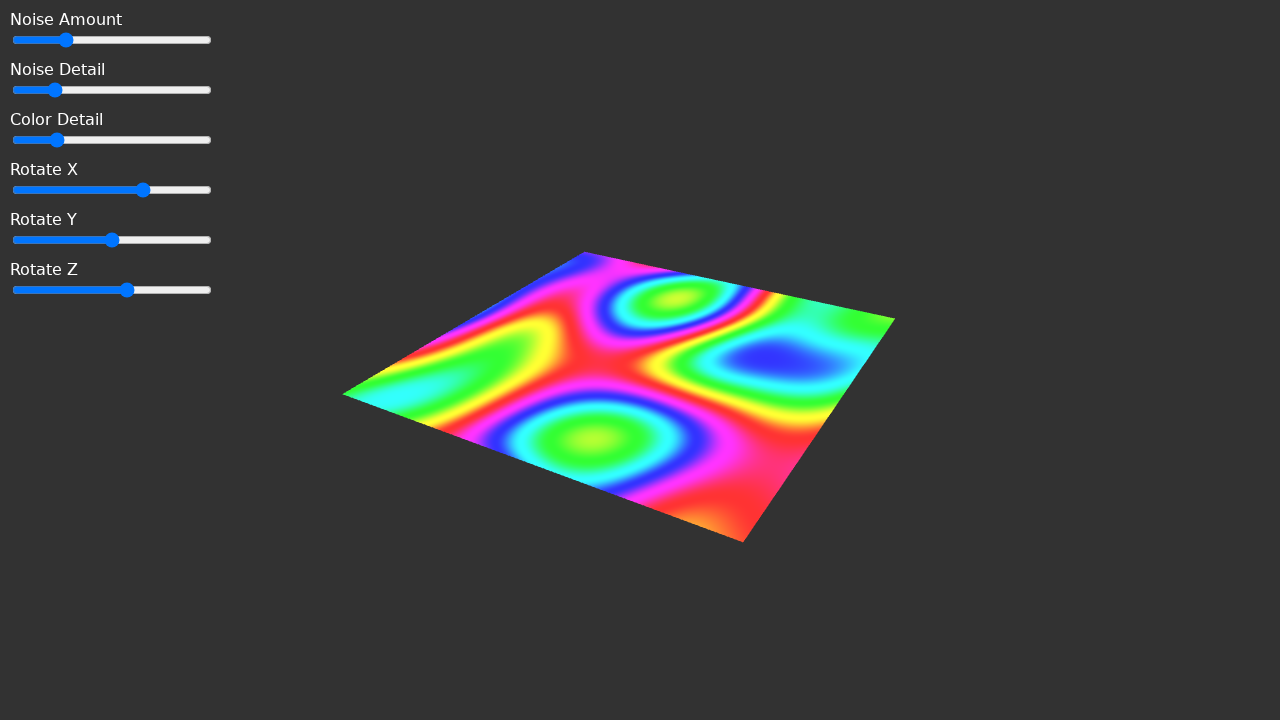
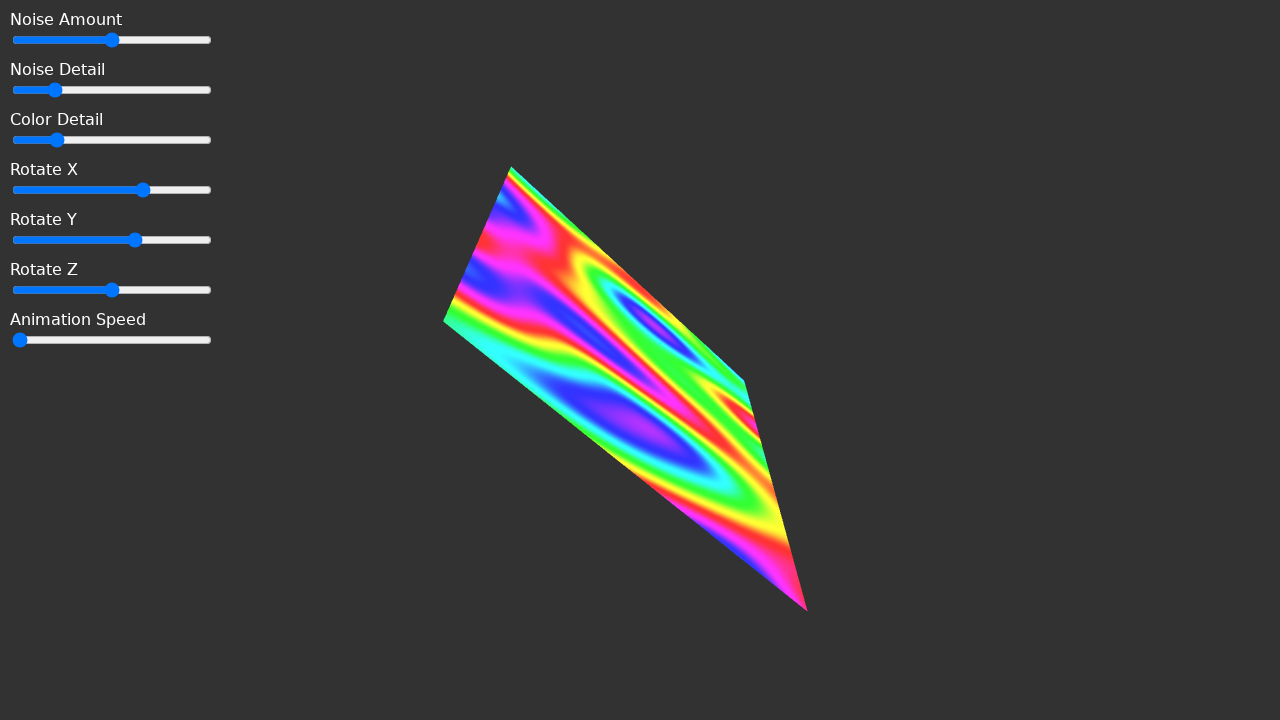
feat: Add colorful distorted mesh sketch
This commit introduces a new p5.js sketch that renders a 3D mesh with interactive controls.

The sketch features:
- A 3D plane displaced by simplex noise in the vertex shader to create a distorted, organic shape.
- UI sliders to control the amount and detail of the noise, allowing for real-time manipulation of the mesh's form.
- Coloring based on a separate simplex noise function in the fragment shader, with a slider to control the color detail.
- UI sliders to control the rotation of the mesh on the X, Y, and Z axes.
- An initial 3/4 isometric view with the entire object centered and visible in the canvas.
- An animation speed slider to control the movement of the noise.

The new sketch is registered in `sketches.json` and includes the necessary JavaScript and GLSL shader files.

diff --git a/sketches/colorful_distorted_mesh/colorful_distorted_mesh.js b/sketches/colorful_distorted_mesh/colorful_distorted_mesh.js
@@ -1,8 +1,9 @@
 let shaderProgram;
 let noiseSlider, detailSlider, colorDetailSlider;
 let rotXSlider, rotYSlider, rotZSlider;
+let speedSlider;
 let noiseLabel, detailLabel, colorDetailLabel;
-let rotXLabel, rotYLabel, rotZLabel;
+let rotXLabel, rotYLabel, rotZLabel, speedLabel;
 
 function preload() {
   shaderProgram = loadShader('sketches/colorful_distorted_mesh/colorful_distorted_mesh.vert', 'sketches/colorful_distorted_mesh/colorful_distorted_mesh.frag');
@@ -14,7 +15,7 @@ function setup() {
   // Create sliders and labels for noise and color
   noiseLabel = createDiv('Noise Amount');
   noiseLabel.position(10, 10).style('color', 'white');
-  noiseSlider = createSlider(0, 200, 50, 1).position(10, 30).style('width', '200px');
+  noiseSlider = createSlider(0, 200, 100, 1).position(10, 30).style('width', '200px');
 
   detailLabel = createDiv('Noise Detail');
   detailLabel.position(10, 60).style('color', 'white');
@@ -31,11 +32,16 @@ function setup() {
 
   rotYLabel = createDiv('Rotate Y');
   rotYLabel.position(10, 210).style('color', 'white');
-  rotYSlider = createSlider(-PI, PI, 0, 0.01).position(10, 230).style('width', '200px');
+  rotYSlider = createSlider(-PI, PI, PI / 4, 0.01).position(10, 230).style('width', '200px');
 
   rotZLabel = createDiv('Rotate Z');
   rotZLabel.position(10, 260).style('color', 'white');
-  rotZSlider = createSlider(-PI, PI, PI / 6, 0.01).position(10, 280).style('width', '200px');
+  rotZSlider = createSlider(-PI, PI, 0, 0.01).position(10, 280).style('width', '200px');
+
+  // Create slider for animation speed
+  speedLabel = createDiv('Animation Speed');
+  speedLabel.position(10, 310).style('color', 'white');
+  speedSlider = createSlider(0, 0.1, 0, 0.001).position(10, 330).style('width', '200px');
 
   noStroke();
 }
@@ -43,10 +49,13 @@ function setup() {
 function draw() {
   background(50);
 
+  // Set camera position to be further away
+  camera(0, 0, 800, 0, 0, 0, 0, 1, 0);
+
   shader(shaderProgram);
 
   // Pass uniforms to the shader
-  shaderProgram.setUniform('u_time', frameCount * 0.01);
+  shaderProgram.setUniform('u_time', frameCount * speedSlider.value());
   shaderProgram.setUniform('u_noise_amount', noiseSlider.value());
   shaderProgram.setUniform('u_noise_detail', detailSlider.value());
   shaderProgram.setUniform('u_color_detail', colorDetailSlider.value());
@@ -58,7 +67,7 @@ function draw() {
   rotateZ(rotZSlider.value());
 
   // Draw a plane with enough vertices for detail
-  plane(400, 400, 100, 100);
+  plane(400, 400, 150, 150);
 }
 
 function windowResized() {
@@ -73,10 +82,12 @@ function cleanup() {
     rotXSlider.remove();
     rotYSlider.remove();
     rotZSlider.remove();
+    speedSlider.remove();
     noiseLabel.remove();
     detailLabel.remove();
     colorDetailLabel.remove();
     rotXLabel.remove();
     rotYLabel.remove();
     rotZLabel.remove();
+    speedLabel.remove();
 }
